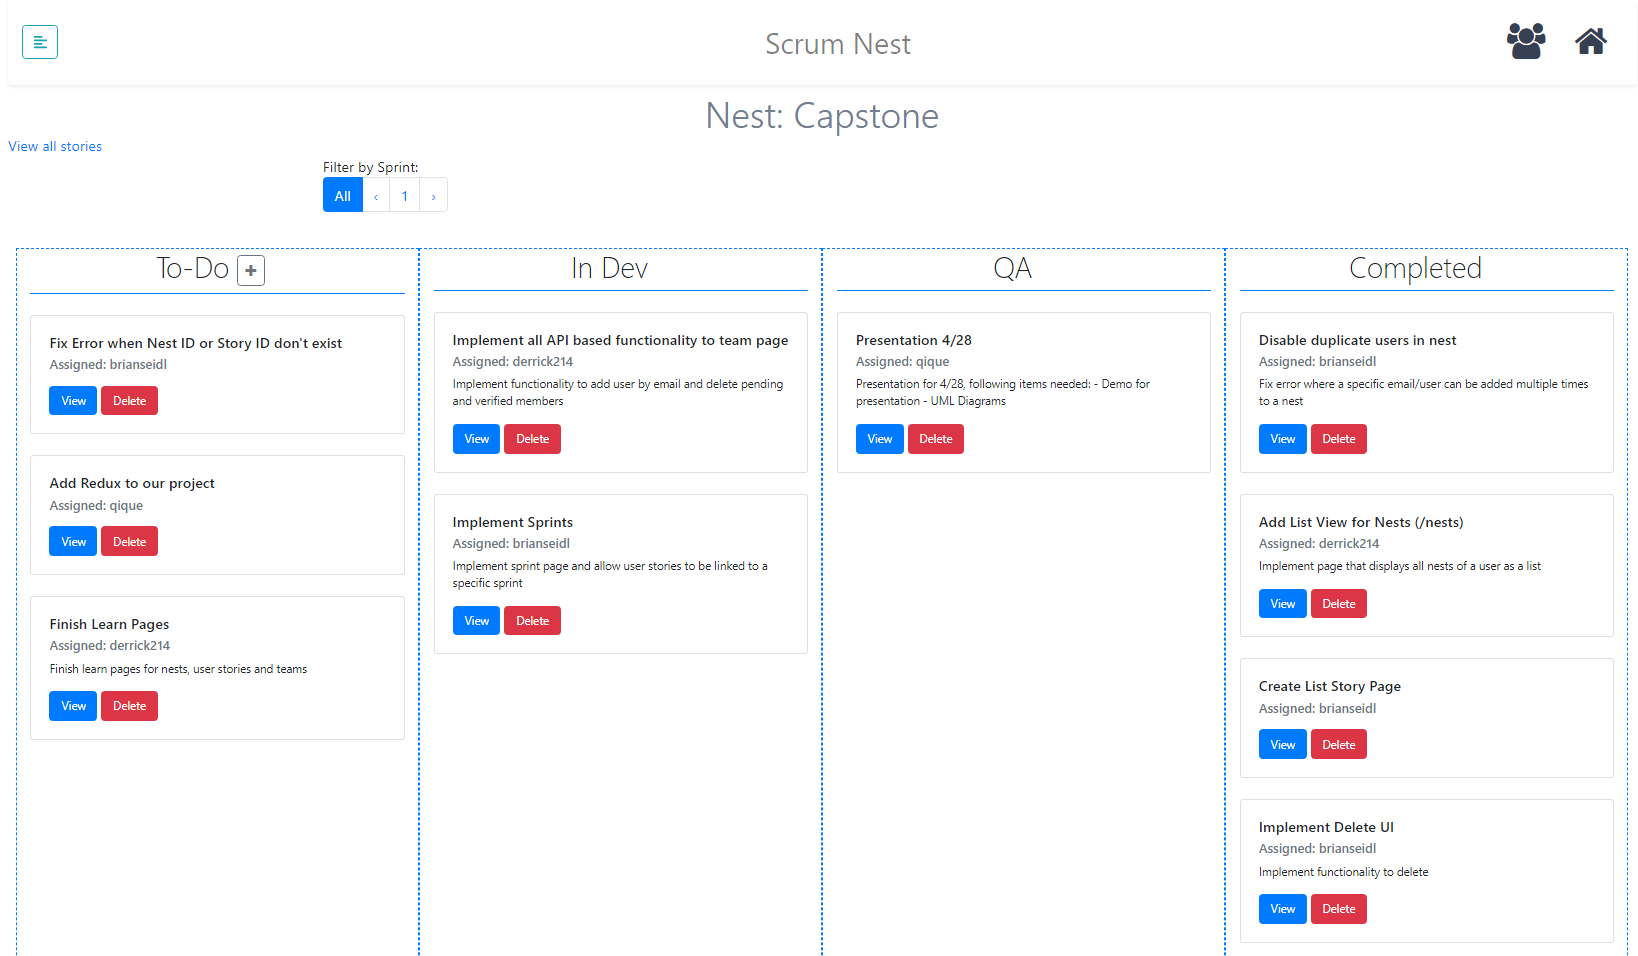
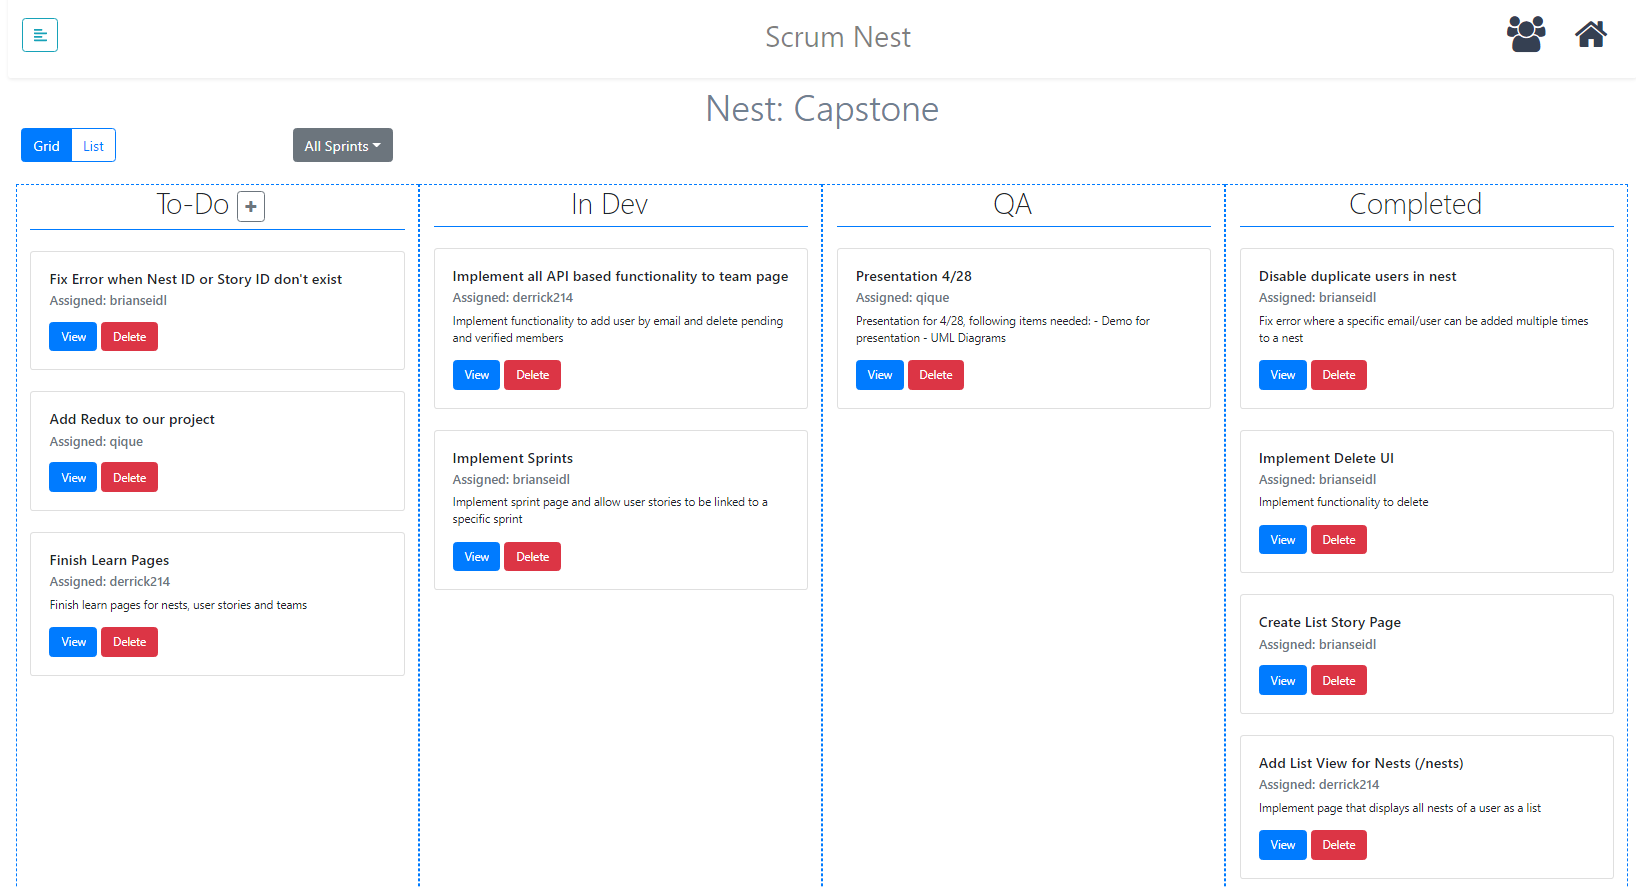
learn pages completed

diff --git a/src/pages/LearnMore/LearnUserStories.js b/src/pages/LearnMore/LearnUserStories.js
@@ -28,12 +28,14 @@ class LearnUserStories extends Component {
               />
               <p>
                 <br></br>
-                Diagram 1: Scrum Nest - Nest Page with User Stories
+                Diagram 1: Scrum Nest - Nest Page with User Stories Grid View
               </p>
               <hr />
 
               {/* <!-- Post Content --> */}
-              <p className="lead">What is a User Story?</p>
+              <p className="lead">
+                <b>What is a User Story?</b>
+              </p>
               <p>
                 A user story is a unit of work in an agile framework, such as
                 scrum. It expressed an end goal task from a software user's
@@ -50,7 +52,9 @@ class LearnUserStories extends Component {
 
               <hr />
 
-              <p className="lead">How to create a User Story?</p>
+              <p className="lead">
+                <b>How to create a User Story?</b>
+              </p>
               <p>
                 To create a user story, select the "+" button next to the
                 "To-Do" title of the first column.
@@ -64,21 +68,27 @@ class LearnUserStories extends Component {
 
               <hr />
 
-              <p className="lead">Filter User Stories by Sprint</p>
+              <p className="lead">
+                <b> Filter User Stories by Sprint </b>
+              </p>
               <p>
                 User Stories can be filtered by Sprint. In scrum, a sprint is a
                 time duration in which specific tasks have to be completed,
                 normally numbered as Sprint 1, 2, 3, etc.
               </p>
               <p>
-                Using the "Filter by Sprint" option above the Nest table, a user
+                Using the "All Sprints" dropdown above the Nest table, a user
                 can filter the display to show all user stories (default) or
-                user stories for a specific sprint.
+                user stories for a specific sprint. By selecting the "New
+                Sprint" option in the dropdown, a new sprint will be created
+                defaulted to the following number of the latest sprint.
               </p>
 
               <hr />
 
-              <p className="lead">How to view and edit a User Story?</p>
+              <p className="lead">
+                <b>How to view and edit a User Story?</b>
+              </p>
               <p>
                 To view and edit details of a specific user story click on the
                 blue "View" button on the user story card. This will redirect
@@ -123,10 +133,9 @@ class LearnUserStories extends Component {
                 to the user story.
               </p>
               <img
-                className="img-fluid rounded"
                 src="/assets/view-user-story.PNG"
-                height="300"
-                width="800"
+                height="550"
+                width="900"
                 alt="Edit user story view."
               ></img>
               <p>
@@ -135,11 +144,34 @@ class LearnUserStories extends Component {
               </p>
 
               <hr />
-              <p className="lead">How to delete a User Story?</p>
+              <p className="lead">
+                <b>How to delete a User Story?</b>
+              </p>
               <p>
                 To delete a user story, click on the red "Delete" button on the
                 user story card. A confirmation dialog will appear, hit the
                 'Yes' button to confirm.
+              </p>
+
+              <hr />
+              <p className="lead">
+                <b>List View</b>
+              </p>
+              <p>
+                To view the user stories of a nest as a list instead of a grid.
+                Click on the "List" option next to grid on the top left of the
+                Nest table. The view will as shown in Diagram 3 below.
+              </p>
+
+              <img
+                src="/assets/view-user-story-list.PNG"
+                height="291"
+                width="900"
+                alt="User story list view."
+              ></img>
+              <p>
+                <br></br>
+                Diagram 3: Scrum Nest - Nest Page with User Stories List View
               </p>
               <hr />
             </div>

diff --git a/src/pages/LearnMore/LearnTeams.js b/src/pages/LearnMore/LearnTeams.js
@@ -20,10 +20,9 @@ class LearnTeams extends Component {
               <hr />
               {/* <!-- Preview Image --> */}
               <img
-                className="img-fluid rounded"
                 src="/assets/owner-view-team.PNG"
-                height="300"
-                width="800"
+                height="400"
+                width="900"
                 alt="Team page view from nest owner perspective."
               />
               <p>
@@ -34,7 +33,9 @@ class LearnTeams extends Component {
               <hr />
 
               {/* <!-- Post Content --> */}
-              <p className="lead">What are Teams?</p>
+              <p className="lead">
+                <b>What are Teams?</b>
+              </p>
               <p>
                 Teams quite literally represent the team of your project. To
                 navigate to the Teams page, click on the team icon on the top
@@ -54,10 +55,9 @@ class LearnTeams extends Component {
               <hr />
               {/* <!-- Preview Image --> */}
               <img
-                className="img-fluid rounded"
                 src="/assets/member-view-team.PNG"
-                height="300"
-                width="800"
+                height="400"
+                width="900"
                 alt="Team page view from nest member perspective."
               />
               <p>
@@ -66,7 +66,9 @@ class LearnTeams extends Component {
               </p>
               <hr />
 
-              <p className="lead">How to add members to a Nest?</p>
+              <p className="lead">
+                <b>How to add members to a Nest?</b>
+              </p>
               <p>
                 Adding users to a nest is a simple process. Enter their email
                 into the add teammate textbox and click the add button.
@@ -85,7 +87,9 @@ class LearnTeams extends Component {
               </p>
               <hr />
 
-              <p className="lead">How to remove members from a Nest?</p>
+              <p className="lead">
+                <b>How to remove members from a Nest?</b>
+              </p>
               <p>
                 The owner of the nest can remove both pending members and
                 members at any point by clicking the X button next to the email

diff --git a/src/pages/LearnMore/LearnNests.js b/src/pages/LearnMore/LearnNests.js
@@ -33,7 +33,9 @@ class LearnNests extends Component {
               <hr />
 
               {/* <!-- Post Content --> */}
-              <p className="lead">What is a Nest?</p>
+              <p className="lead">
+                <b>What is a Nest?</b>
+              </p>
               <p>
                 A nest is a virtual scrum board. For those readers who do not
                 know what a scrum board is, scrum boards in its most simple
@@ -46,7 +48,9 @@ class LearnNests extends Component {
                 board detailing the various statuses a user story can have.
               </p>
               <hr />
-              <p className="lead">How to create a Nest</p>
+              <p className="lead">
+                <b>How to create a Nest</b>
+              </p>
               <p>
                 To create a nest is very easy. Simply select the 'Create Nest'
                 option that is seen on the sidebar menu on any page from the
@@ -59,7 +63,7 @@ class LearnNests extends Component {
               </p>
               <img
                 className="img-fluid rounded"
-                src="/assets/new-nest-page.jpg"
+                src="/assets/new-nest-page.png"
                 height="300"
                 width="800"
                 alt="A new Nest."
